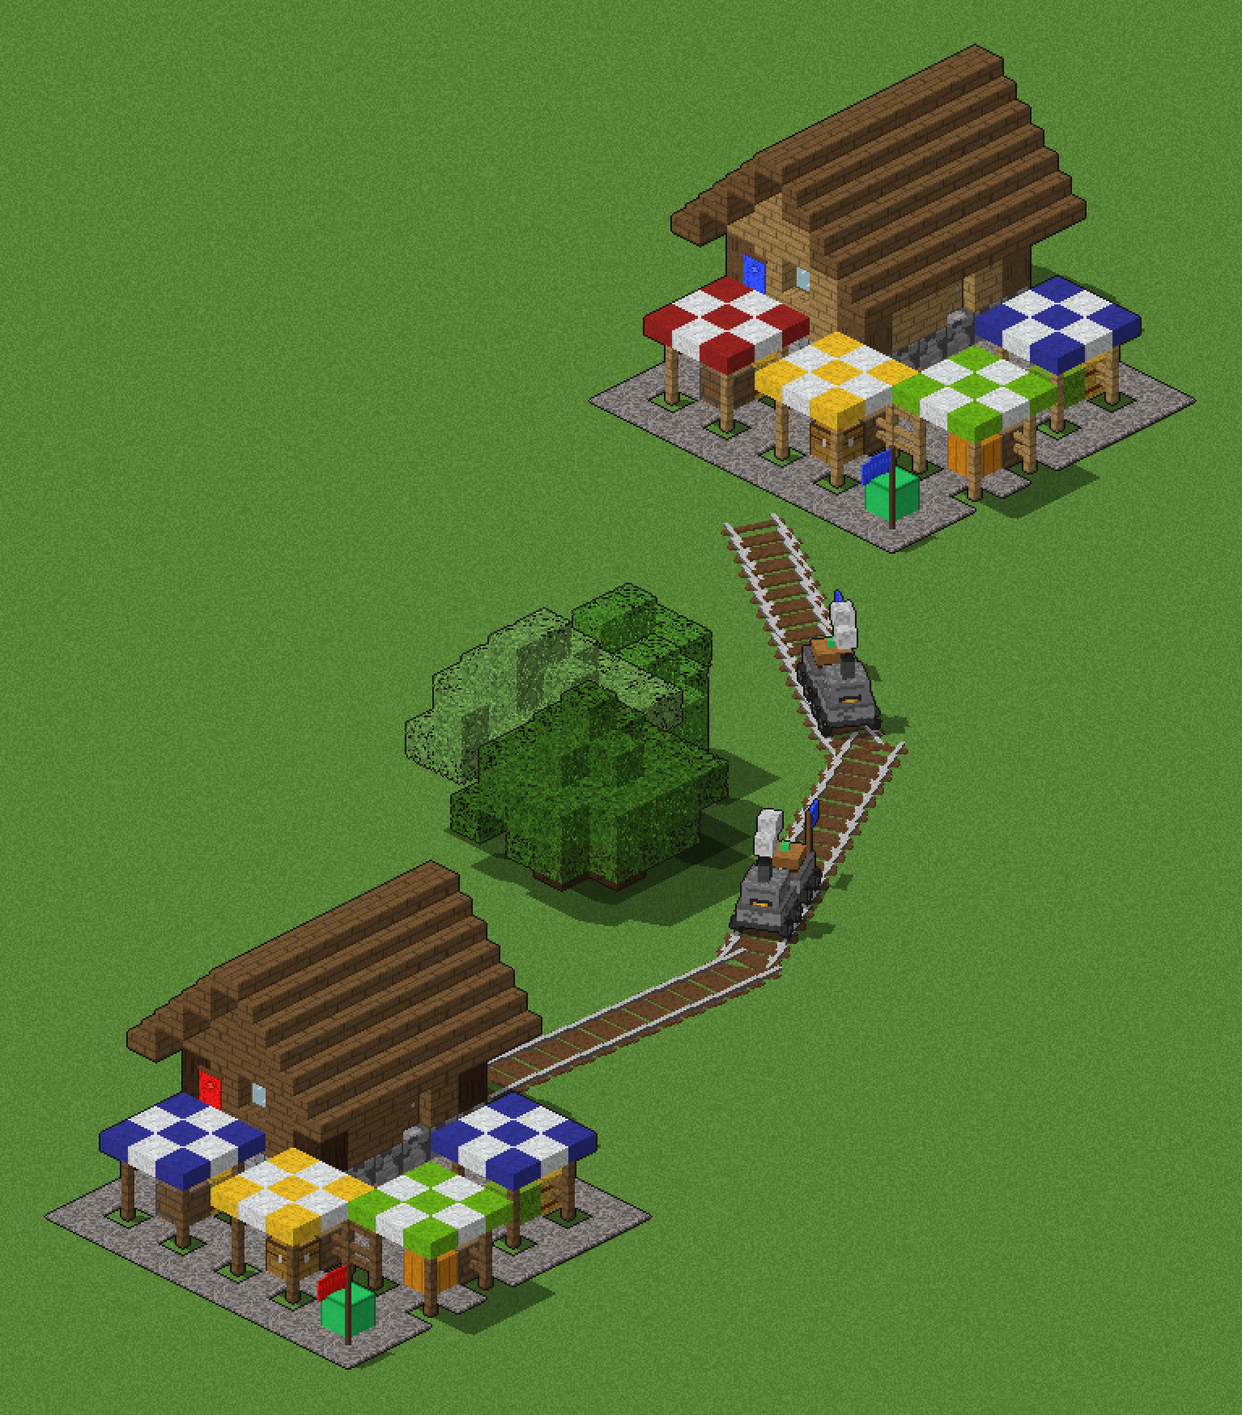
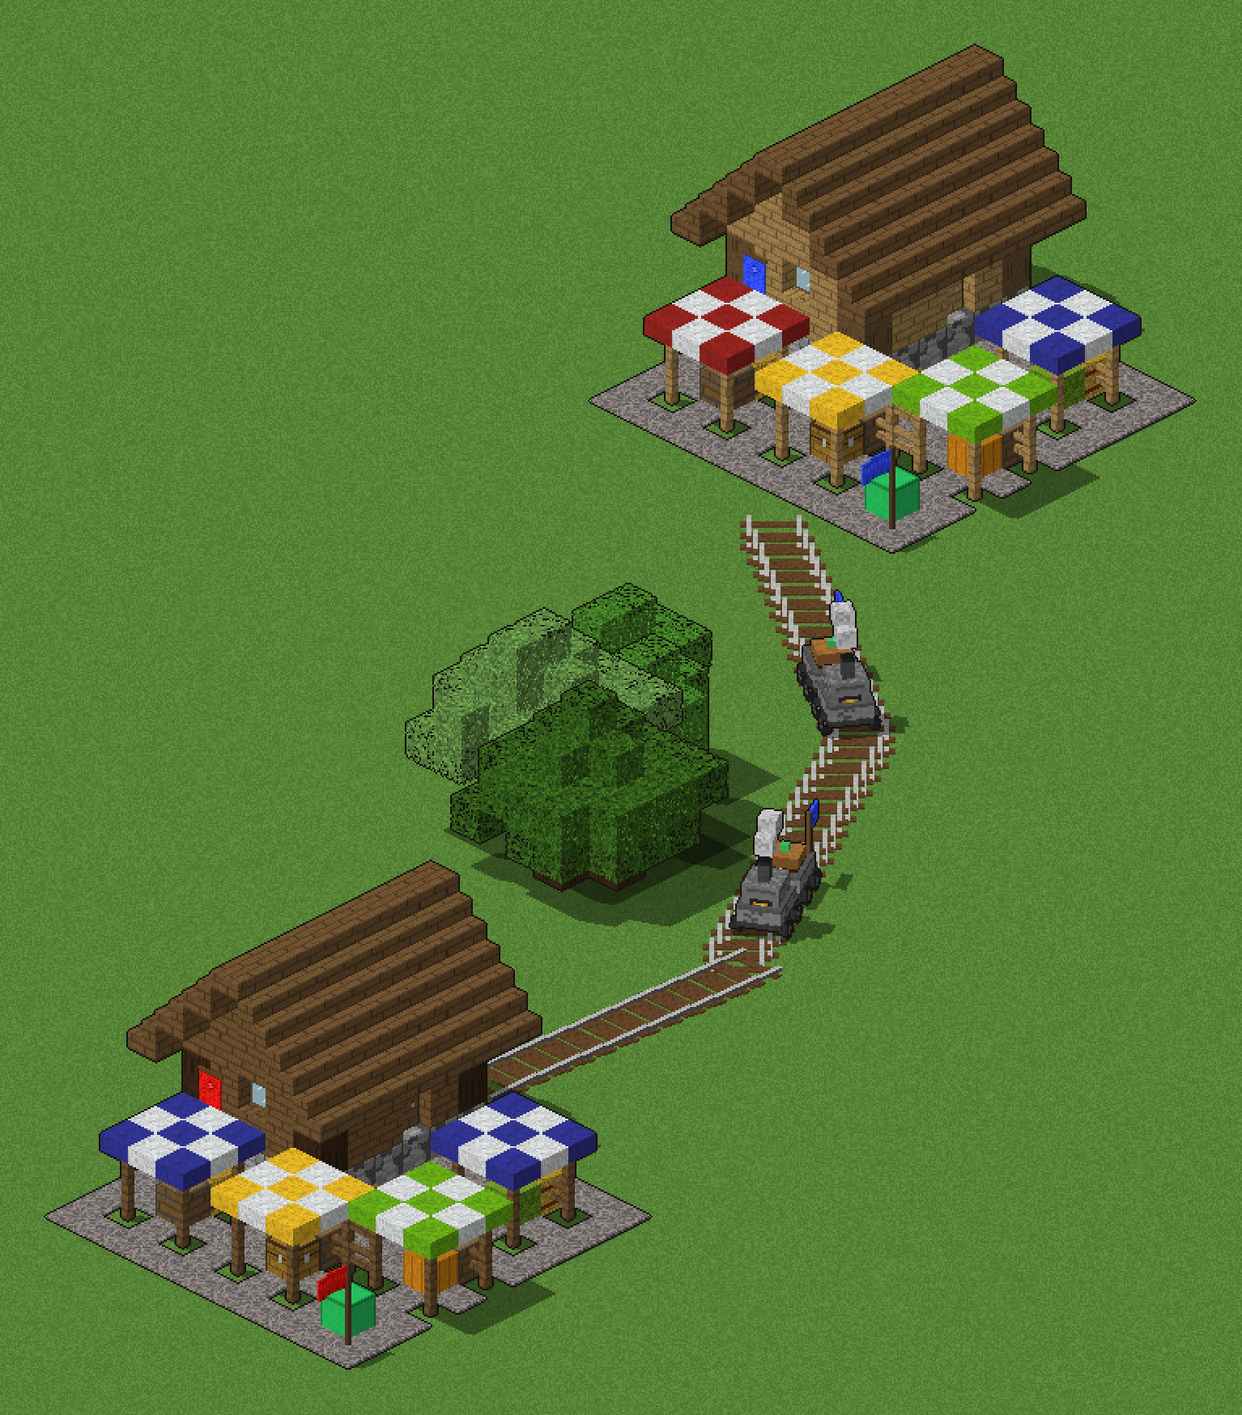
Keep trains on the Trade Cart's own route-finding so a blockage no longer crashes
It still crashed when a train was blocked by units. What both crashing builds
had in common was a terrain restriction row of the trains' own, one no moving
unit uses in the original game (an empty one, then the sea buildings'); the
game consults that row to find a way round a blockage, and seems to know
only the rows its moving units have.

The train now keeps the Trade Cart's own row, so it moves and finds its way
exactly as the Trade Cart does, and that row leaves the rails behind it. The
siege weapons that shared the row move to the foot soldiers' and cavalry's,
which lets units onto exactly the same ground (in snow they leave footprints
instead of wheel tracks). The rail pieces now copy the game's own cart
tracks more closely too: 8 directions, like the train itself.

Changed region(s): [[0.6128, 0.4943, 0.7353, 0.6487], [0.5821, 0.3398, 0.6741, 0.4943], [0.5515, 0.6178, 0.6434, 0.6796]]

diff --git a/tools/aom/rails.py b/tools/aom/rails.py
@@ -5,12 +5,14 @@ it can leave something on the ground behind a moving unit: its terrain restricti
 picture a unit walking there leaves behind (a row's "pass graphics"). That is how carts leave wheel tracks and soldiers
 footprints in the snow (CARTSTPS: a few pictures on the ground layer, each fainter, for some seconds each, then gone).
 
-So `patch` gives the train (the Trade Cart, empty 128 and loaded 204) a row of its own, made a copy of the Trade Cart's
-row (it goes where the Trade Cart went) that leaves a piece of track on every terrain it goes on. That row is the one
-only the sea buildings use (the Sea Tower, Sea Wall and Sea Gates, 785-804, which no one can build): a row the game
-has always had units on. A row no unit used (the first try) crashed the game when a train was blocked by other units. The track is an unused graphic (one of
+So the train keeps the Trade Cart's own row of the terrain restriction table (its route-finding exactly the game's),
+and `patch` makes that row leave a piece of track on every terrain it goes on. The siege weapons that shared it move to
+the row foot soldiers and cavalry use, which lets units onto exactly the same ground (in snow they now leave footprints
+instead of wheel tracks). Giving the train a row of its own crashed the game when a train was blocked by units, twice:
+a row no unit used, then the sea buildings' (no one builds those; the game's route-finding seems to know only the rows
+moving units have). The track is an unused graphic (one of
 TRACK_GRAPHICS, an old piece of the Galley or the Trade Cog) pointed at a new SLP (`track_slp`): a straight piece of
-rails, iron on dark sleepers, as wide as the train's wheels, in 16 directions (the train's), on the ground under every
+rails, iron on dark sleepers, as wide as the train's wheels, in 8 directions (the train's), on the ground under every
 unit. Right-click another player's Market and the train lays rails all the way there. The player wanted them to stay
 all game, but a piece shown for a day (one picture of 86400 s) went with that crash, so a piece now keeps the cart
 tracks' timing, which the game is known to handle (6 s a picture), over TRACK_FRAMES pictures: 5 minutes, the last
@@ -34,8 +36,6 @@ from .textures import Painter
 from .voxel import TILE
 
 TRAINS = (128, 204)  # the Trade Cart, empty and loaded
-SEA_BUILDINGS = range(785, 805)  # the Sea Tower, Sea Wall and Sea Gates: no one can build them
-SEA_WALL = 788
 TRADE_CART = 19  # their unit class
 HELP_STRINGS = 79000  # the .dat stores help text ids 79000 above the string's id (as gameplay.HELP_STRINGS)
 TRAIN_SCALE = 1.6  # the train's size (siege.trade_cart), which the track is as wide as
@@ -44,7 +44,7 @@ SLEEPER, IRON, IRON_EDGE = "#6b4a2b", "#c4c4c4", "#6e6e6e"
 # graphics no unit and no other graphic uses, with an SLP of their own: old pieces of the Galley and the Trade Cog (the
 # giant Pac-Man takes the first free one of gameplay.GIANT_GRAPHICS, which starts the other end)
 TRACK_GRAPHICS = ("GALLY_A1", "GALLY_F1", "COGXX_W1", "COGXX_A1")
-TRACK_ANGLES, TRACK_MIRRORING = 16, 12  # the train's 16 directions, the right half mirrored (a ship's wake's)
+TRACK_ANGLES, TRACK_MIRRORING = 8, 6  # the train's 8 directions, the right half mirrored (as the cart tracks)
 TRACK_FRAMES, TRACK_SECONDS = 50, 6.0  # pictures, each shown as long as a cart track's: 5 minutes in all
 TRACK_FADING = 5  # the last pictures, fainter and fainter
 TRACK_LAYER = 10  # the ground, under every unit (the cart tracks')
@@ -117,14 +117,16 @@ def track_slp(quant, frames: int = TRACK_FRAMES, angles: int = TRACK_ANGLES, mir
 
 # --------------------------------------------------------------------------- the .dat
 
-def train_row(data: bytes, civs) -> Optional[int]:
-    """The row of the terrain restriction table the Sea Wall uses, if only the sea buildings use it."""
-    row = next((units[SEA_WALL].values["terrain_restriction"] for units in civs.units
-                if len(units) > SEA_WALL and units[SEA_WALL] is not None), None)
-    if row is None or row >= len(datfile.restrictions(data)):
-        return None
-    users = {u.id for units in civs.units for u in units if u is not None and u.values["terrain_restriction"] == row}
-    return row if users <= set(SEA_BUILDINGS) else None
+def siege_row(data: bytes, civs, train: int) -> Optional[int]:
+    """Where the units sharing the trains' row `train` go: the row exactly like it that most units use."""
+    rows = datfile.restrictions(data)
+    users: dict[int, int] = {}
+    for units in civs.units:
+        for u in units:
+            if u is not None:
+                users[u.values["terrain_restriction"]] = users.get(u.values["terrain_restriction"], 0) + 1
+    same = [k for k, row in enumerate(rows) if k != train and row == rows[train] and users.get(k)]
+    return max(same, key=lambda k: users[k]) if same else None
 
 
 def _row_at(data: bytes, row: int) -> int:
@@ -158,12 +160,9 @@ def track_graphic(graphics: dict, civs, taken: set[int]) -> Optional[int]:
 
 def patch(data: bytearray, civs, graphics: dict, slp_id: int,
           taken: set[int] = frozenset()) -> tuple[Optional[tuple[int, int, int]], str, Optional[dict[str, int]]]:
-    """The trains (in place): the Trade Cart goes where it went, leaving rails behind it, drawn from SLP `slp_id`.
-    Returns ((the track's graphic, the trains' restriction row, the Trade Cart's) or None, what happened, the train's
-    text ids)."""
-    row = train_row(bytes(data), civs)
-    if row is None:
-        return None, "Trains: not changed, the sea buildings' terrain restriction row is not theirs alone", None
+    """The trains (in place): the Trade Cart leaves rails behind it, drawn from SLP `slp_id`; the units that shared its
+    terrain restriction row move to one exactly like it. Returns ((the track's graphic, the trains' row, the others')
+    or None, what happened, the train's text ids)."""
     gid = track_graphic(graphics, civs, taken)
     if gid is None:
         return None, f"Trains: not changed, none of {', '.join(TRACK_GRAPHICS)} is free for their rails", None
@@ -172,17 +171,21 @@ def patch(data: bytearray, civs, graphics: dict, slp_id: int,
     if not trains:
         return None, f"Trains: not changed, units {', '.join(map(str, TRAINS))} are not the Trade Cart here", None
     rows = datfile.restrictions(bytes(data))
-    old = trains[0].values["terrain_restriction"]
-    if old >= len(rows) or any(u.values["terrain_restriction"] != old for u in trains):
+    row = trains[0].values["terrain_restriction"]
+    if row >= len(rows) or any(u.values["terrain_restriction"] != row for u in trains):
         return None, "Trains: not changed, the Trade Carts do not all go on the same ground", None
+    other = siege_row(bytes(data), civs, row)
+    if other is None:
+        return None, f"Trains: not changed, no other units' row is exactly like theirs ({row})", None
+    moved = [u for units in civs.units for u in units if u is not None and u.values["terrain_restriction"] == row
+             and u not in trains]
+    for u in moved:
+        DU.patch(data, u, terrain_restriction=other)
     terrains = len(rows[0])
     at = _row_at(bytes(data), row)
-    struct.pack_into(f"<{terrains}f", data, at, *rows[old])  # where the Trade Cart went
-    for t, passable in enumerate(rows[old]):  # and rails behind it on every bit of that
-        struct.pack_into("<iiii", data, at + 4 * terrains + 16 * t,
-                         *((-1, -1, gid, TRACK_SPACING) if passable > 0 else NO_PASS))
-    for u in trains:
-        DU.patch(data, u, terrain_restriction=row)
+    for t, passable in enumerate(rows[row]):  # rails behind it on every bit of ground it goes on
+        if passable > 0:
+            struct.pack_into("<iiii", data, at + 4 * terrains + 16 * t, -1, -1, gid, TRACK_SPACING)
     g = graphics[gid]
     struct.pack_into("<i", data, g.slp_at, slp_id)
     struct.pack_into("<b", data, g.layer_at, TRACK_LAYER)
@@ -194,7 +197,9 @@ def patch(data: bytearray, civs, graphics: dict, slp_id: int,
     strings = {"name": first.values["name_id"], "creation": first.values["creation_id"]}
     if first.values["help_id"] > HELP_STRINGS:
         strings["help"] = first.values["help_id"] - HELP_STRINGS
-    return (gid, row, old), (f"Trains: the Trade Carts (units {', '.join(map(str, TRAINS))}, {len(trains)} in all) "
-                             f"go where they went (terrain restriction {row}, a copy of {old}) and leave rails behind "
-                             f"them: graphic {gid} ({g.name}) now draws SLP {slp_id} in {TRACK_ANGLES} directions, "
-                             f"{TRACK_FRAMES} pictures of {TRACK_SECONDS:g} s"), strings
+    names = sorted({u.name for u in moved})
+    return (gid, row, other), (f"Trains: the Trade Carts (units {', '.join(map(str, TRAINS))}, {len(trains)} in all) "
+                               f"keep their terrain restriction {row}, which now leaves rails behind them: graphic "
+                               f"{gid} ({g.name}) draws SLP {slp_id} in {TRACK_ANGLES} directions, {TRACK_FRAMES} "
+                               f"pictures of {TRACK_SECONDS:g} s; the units that shared it ({', '.join(names)}) "
+                               f"use {other}, exactly like it"), strings

diff --git a/tools/tests/test_export.py b/tools/tests/test_export.py
@@ -87,8 +87,8 @@ def fake_civs(civs: int = 2, slots: int = 900, monkey_graphic: int = 0, boar_gra
     armour, the Saboteur (706) with its blast, the Javelina (822) borrowing the Wild Boar's sprites, with its
     carcass (823) and the boar's (356), and the Advanced Heavy Crossbowman (493: graphics `crossbow_graphic` on,
     attack, dying, standing, walking) with its shot (508) and the shot Chemistry makes of it (520), a Dock (46),
-    which may stand on Water or Shallows next to a beach, and the Trade Cart (128, and 204 loaded), which goes where
-    the restriction table's second row lets it.
+    which may stand on Water or Shallows next to a beach, and the Trade Cart (128, and 204 loaded) and the Bombard
+    Cannon (36), which go where the restriction table's third row lets them (the same ground as the eighth).
 
     Before them, the units' task lists: the Militia (74) can attack and board a Transport Ship, the Monkey Boy
     (860) can only attack."""
@@ -128,9 +128,9 @@ def fake_civs(civs: int = 2, slots: int = 900, monkey_graphic: int = 0, boar_gra
             elif u == 46:
                 out += _unit_bytes(u, 80, "DOCK", placement=(2, 35, 1, 4))
             elif u in (128, 204):
-                out += _unit_bytes(u, 70, "TCART" if u == 128 else "TCARTF", cls=19, restriction=1)
-            elif u == 788:  # the Sea Wall, which no one can build, alone on the last row
-                out += _unit_bytes(u, 80, "SWAL", cls=27, restriction=2)
+                out += _unit_bytes(u, 70, "TCART" if u == 128 else "TCARTF", cls=19, restriction=2)
+            elif u == 36:  # a Bombard Cannon, which goes where the Trade Cart goes
+                out += _unit_bytes(u, 70, "BCANN", cls=13, restriction=2)
             elif u == 822:
                 out += _unit_bytes(u, 70, "BOARJ", boar_graphic, dead=356)
             elif u in (356, 823):
@@ -161,11 +161,11 @@ def fake_terrains(terrains: dict[int, tuple[str, int]]) -> bytes:
 def fake_dat(graphics: list[dict], civs: bytes = b"", ground: dict = None) -> bytes:
     """A minimal empires2_x1_p1.dat: header sections plus the given graphics (and terrains and unit tables)."""
     b = bytearray(b"VER 5.7\0")
-    restrictions, terrains = 3, 41  # the first lets units everywhere, the second on land (the first 30 terrains)
-    b += struct.pack("<HH", restrictions, terrains)  # and the last, which only the Sea Wall uses, nowhere
+    restrictions, terrains = 8, 41  # rows 0 and 1 let units everywhere, 2 and 7 on land (the first 30 terrains), the
+    b += struct.pack("<HH", restrictions, terrains)  # rest nowhere
     b += struct.pack(f"<{2 * restrictions}i", *([1] * 2 * restrictions))
     for k in range(restrictions):
-        b += struct.pack(f"<{terrains}f", *[(1.0 if k == 0 or k == 1 and t < 30 else 0.0) for t in range(terrains)])
+        b += struct.pack(f"<{terrains}f", *[(1.0 if k < 2 or k in (2, 7) and t < 30 else 0.0) for t in range(terrains)])
         b += bytes(16 * terrains)
     b += struct.pack("<H", 2) + bytes(36 * 2)
     b += struct.pack("<H", 1) + struct.pack("<hhHi", 0, 0, 2, 300000)  # one sound, with two files
@@ -608,26 +608,26 @@ def test_full_build(tmp: Path):
     rms = (mod / "Script.RM" / "Team Lava Islands.rms").read_bytes().decode("latin-1")  # in the mod's own maps
     assert "#const LAVA 15" in rms and "base_terrain LAVA" in rms and "FISH" not in rms
     assert "Lava: terrain 15 ('Old Water') is lava" in report and "Docks (units 46)" in report
-    # the trains: the Trade Cart (128, 204) goes where it went, on a row of its own (the Sea Wall's), which
-    # leaves rails behind it on every terrain it goes on: an old Galley piece, drawing the rails' own SLP
+    # the trains: the Trade Cart (128, 204) keeps its row, which now leaves rails behind it on every terrain it goes
+    # on (an old Galley piece, drawing the rails' own SLP); the Bombard Cannon, which shared it, takes one just like it
     from aom.datfile import restrictions
     after = (mod / "Data" / "empires2_x1_p1.dat").read_bytes()
     rows = restrictions(datunits.decompress(after))
     assert all(c[128].values["terrain_restriction"] == c[204].values["terrain_restriction"] == 2 for c in units.units)
-    assert rows[2] == rows[1]
+    assert all(c[36].values["terrain_restriction"] == 7 for c in units.units) and rows[2] == rows[7]
     track = next(g for g in graphics_after.values() if g.name == "GALLY_A1")
-    assert (track.slp, track.layer, track.frame_count, track.angle_count, track.mirroring) == (15602, 10, 50, 16, 12)
+    assert (track.slp, track.layer, track.frame_count, track.angle_count, track.mirroring) == (15602, 10, 50, 8, 6)
     assert track.frame_rate == 6.0 and track.sequence_type == 3  # the cart tracks' timing, 5 minutes in all
     data = datunits.decompress(after)
-    at = 12 + 8 * 3 + 2 * 41 * 20 + 4 * 41  # the trains' row's pass graphics
+    at = 12 + 8 * 8 + 2 * 41 * 20 + 4 * 41  # the trains' row's pass graphics
     left = [struct.unpack_from("<iiii", data, at + 16 * t) for t in range(41)]
-    assert left[:30] == [(-1, -1, track.id, 4)] * 30 and left[30:] == [(-1, -1, -1, 0)] * 11
+    assert left[:30] == [(-1, -1, track.id, 4)] * 30 and left[30:] == [(0, 0, 0, 0)] * 11  # the rest as it was
     rails = slp.decode(out.get(15602))
-    assert len(rails) == 9 * 50  # 16 directions, 9 drawn (the rest mirrored), 50 pictures each
+    assert len(rails) == 5 * 50  # 8 directions, 5 drawn (the rest mirrored), 50 pictures each
     drawn = [int((f.pixels >= 0).sum()) for f in rails[:50]]
     assert drawn[0] == drawn[44] > drawn[45] > drawn[49] > 0  # the last five fainter and fainter
-    assert "Trains: the Trade Carts (units 128, 204, 4 in all) go where they went (terrain restriction 2" in report
-    assert "graphic" in report and "(GALLY_A1) now draws SLP 15602" in report
+    assert "Trains: the Trade Carts (units 128, 204, 4 in all) keep their terrain restriction 2, which now" in report
+    assert "(GALLY_A1) draws SLP 15602" in report and "(BCANN) use 7, exactly like it" in report
     # his name and the game's: the mod's own language_x1_p1.dll has them; the game's files are untouched
     p1_before = (game / "language_x1_p1.dll").read_bytes()
     p1 = (mod / "Data" / "language_x1_p1.dll").read_bytes()
@@ -1001,8 +1001,8 @@ def test_rails():
     assert max(b.hi[0] for b in boxes) > rails.GAUGE  # as wide as the train's wheels
     pal = parse_jasc(fake_palette())
     frames = rails.track_frames(Quantiser(pal))
-    assert len(frames) == len(headings(16, True)) * 50
-    assert len({frames[50 * a].pixels.tobytes() for a in range(9)}) == 9  # a different picture for each direction
+    assert len(frames) == len(headings(8, True)) * 50
+    assert len({frames[50 * a].pixels.tobytes() for a in range(5)}) == 5  # a different picture for each direction
     assert len(rails.TEXTS["help"]) <= 380  # it fits where the Trade Cart's help (380 long) was
 
 

diff --git a/tools/aom/gameplay.py b/tools/aom/gameplay.py
@@ -205,7 +205,9 @@ def patch_dat(raw: bytes, graphics: dict, pacman: bool = True, javelina: bool = 
         carts = [units[k] for k in rail_map.TRAINS if len(units) > k] if trains is not None else []
         if any(cart is not None and cart.type == 70 and cart.values["class"] == rail_map.TRADE_CART and (
                 cart.values["terrain_restriction"] != trains[1] or rows[trains[1]] != rows[trains[2]])
-               for cart in carts):
+               for cart in carts) or (trains is not None and any(  # alone on their row now
+                u is not None and u.values["terrain_restriction"] == trains[1] and u.id not in rail_map.TRAINS
+                for u in units)):
             return None, notes + ["not changed: the trains did not read back as expected"]
     if pac_done:
         try:

diff --git a/tools/concept_sheet.py b/tools/concept_sheet.py
@@ -491,7 +491,7 @@ def lava_scene(out: Path, units: dict[str, Unit]) -> None:
 
 def rails_scene(out: Path, units: dict[str, Unit]) -> None:
     """Trains between a Market and another player's, round a wood, on the rails they leave behind them: a piece every
-    quarter tile, in the nearest of the track's 16 directions (as the game draws it), behind where the train was."""
+    quarter tile, in the nearest of the track's 8 directions (as the game draws it), behind where the train was."""
     import math
     placed = place_buildings([(B("MRKT", "W", 2), 2.0, 2.0)])
     placed += place_buildings([(B("MRKT", "E", 2), 9.0, 16.0)], player=2)

diff --git a/CLAUDE.md b/CLAUDE.md
@@ -122,13 +122,15 @@ putting `tools/` on `sys.path`.
      the Docks' placement terrains (Water, Shallows) become (Water, lava). Its map, `Team Lava Islands.rms` (written
      from scratch, `lava.script`), goes into the mod's `Script.RM` (`write_map`), or in direct mode the game's
      `Random`, which `restore` empties of it (only a file carrying `lava.MARK`). `--only lava` builds just this.
-   - `rails.py` makes the Trade Cart (128, 204) a train that lays its own rails, in place: it gets the sea buildings' restriction
-     row (`train_row`; a row no unit used crashed the game when a train was blocked), made a copy of its old row whose pass graphics (what a
-     unit leaves on the ground behind it, as carts leave tracks in the snow) are a track on every terrain it goes on.
-     The track is an unused graphic (`TRACK_GRAPHICS`, not the giant's or the fireball's) given 16 directions, 50
-     frames of 6 s (the cart tracks' timing; a 1-frame day went with the crash), the ground layer, and a new SLP (`track_slp`, written after the giant's and the fireball's) of a
-     straight piece of rails behind the train (never ahead: it only lies where the train went). The train is drawn
-     `TRAIN_SCALE` big, the track as wide (`GAUGE`); its texts by `name_train`. `--only rails` builds just this.
+   - `rails.py` makes the Trade Cart (128, 204) a train that lays its own rails, in place: it keeps its terrain
+     restriction row (20), whose pass graphics (what a unit leaves on the ground behind it, as carts leave tracks in
+     the snow) become a track on every terrain it goes on; the siege weapons that shared row 20 move to the row exactly
+     like it that most units use (`siege_row`: 7). A row of the train's own (an unused one, then the sea buildings')
+     crashed the game whenever a train was blocked. The track is an unused graphic (`TRACK_GRAPHICS`, not the giant's
+     or the fireball's) given 8 directions, 50 frames of 6 s (the cart tracks' timing), the ground layer, and a new SLP
+     (`track_slp`, written after the giant's and the fireball's) of a straight piece of rails behind the train (never
+     ahead: it only lies where the train went). The train is drawn `TRAIN_SCALE` big, the track as wide (`GAUGE`);
+     its texts by `name_train`. `--only rails` builds just this.
    - `sounds.py` (Pac-Man's) and `roars.py` (the dragon's) WAVs go into `gamedata_x1_p1.drs`. The dragon's sounds
      come after Pac-Man's in the `.dat`'s sound table and take resource ids after his, so his never move.
    - `langdll.py` renames the unit: in direct mode in the game's own DLLs, in place. In the standalone mod,

diff --git a/docs/DESIGN.md b/docs/DESIGN.md
@@ -187,16 +187,18 @@ it can leave a picture on the ground behind a moving unit, as carts leave
 wheel tracks and soldiers footprints in the snow. `rails.py` uses that, in
 place in the `.dat`:
 
-- **The train's own ground rule.** Which terrains a unit may go on is one row
-  of the terrain restriction table, which also says, per terrain, what the
-  unit leaves behind it. The train gets the row of the sea buildings (the Sea
-  Wall and Sea Tower, which no one can build; a row no unit used crashed the
-  game when a train was blocked): a copy of the Trade Cart's, so it goes exactly where the
-  Trade Cart went, that leaves a piece of track on every terrain it goes on.
-  The computer players' trains trade as before.
+- **The train's ground rule.** Which terrains a unit may go on is one row of
+  the terrain restriction table, which also says, per terrain, what the unit
+  leaves behind it. The train keeps the Trade Cart's row, so it goes, and
+  finds its way round things, exactly as the Trade Cart did; the row now
+  leaves a piece of track on every terrain. The siege weapons that shared it
+  take the foot soldiers' and cavalry's row, which lets units onto exactly the
+  same ground (in snow they leave footprints instead of wheel tracks). A row
+  of its own crashed the game whenever a train was blocked by units. The
+  computer players' trains trade as before.
 - **The track** is a graphic no unit uses (an old piece of the Galley),
   pointed at a new picture: a short straight piece of Minecraft rails, iron on
-  dark sleepers, as wide as the train's wheels, in the train's 16 directions,
+  dark sleepers, as wide as the train's wheels, in the train's 8 directions,
   on the ground layer under every unit, building and tree. Each piece lies
   behind where the train is (never ahead of it), so rails only lie where the
   train went, round buildings and trees as it went. A piece stays 5 minutes
